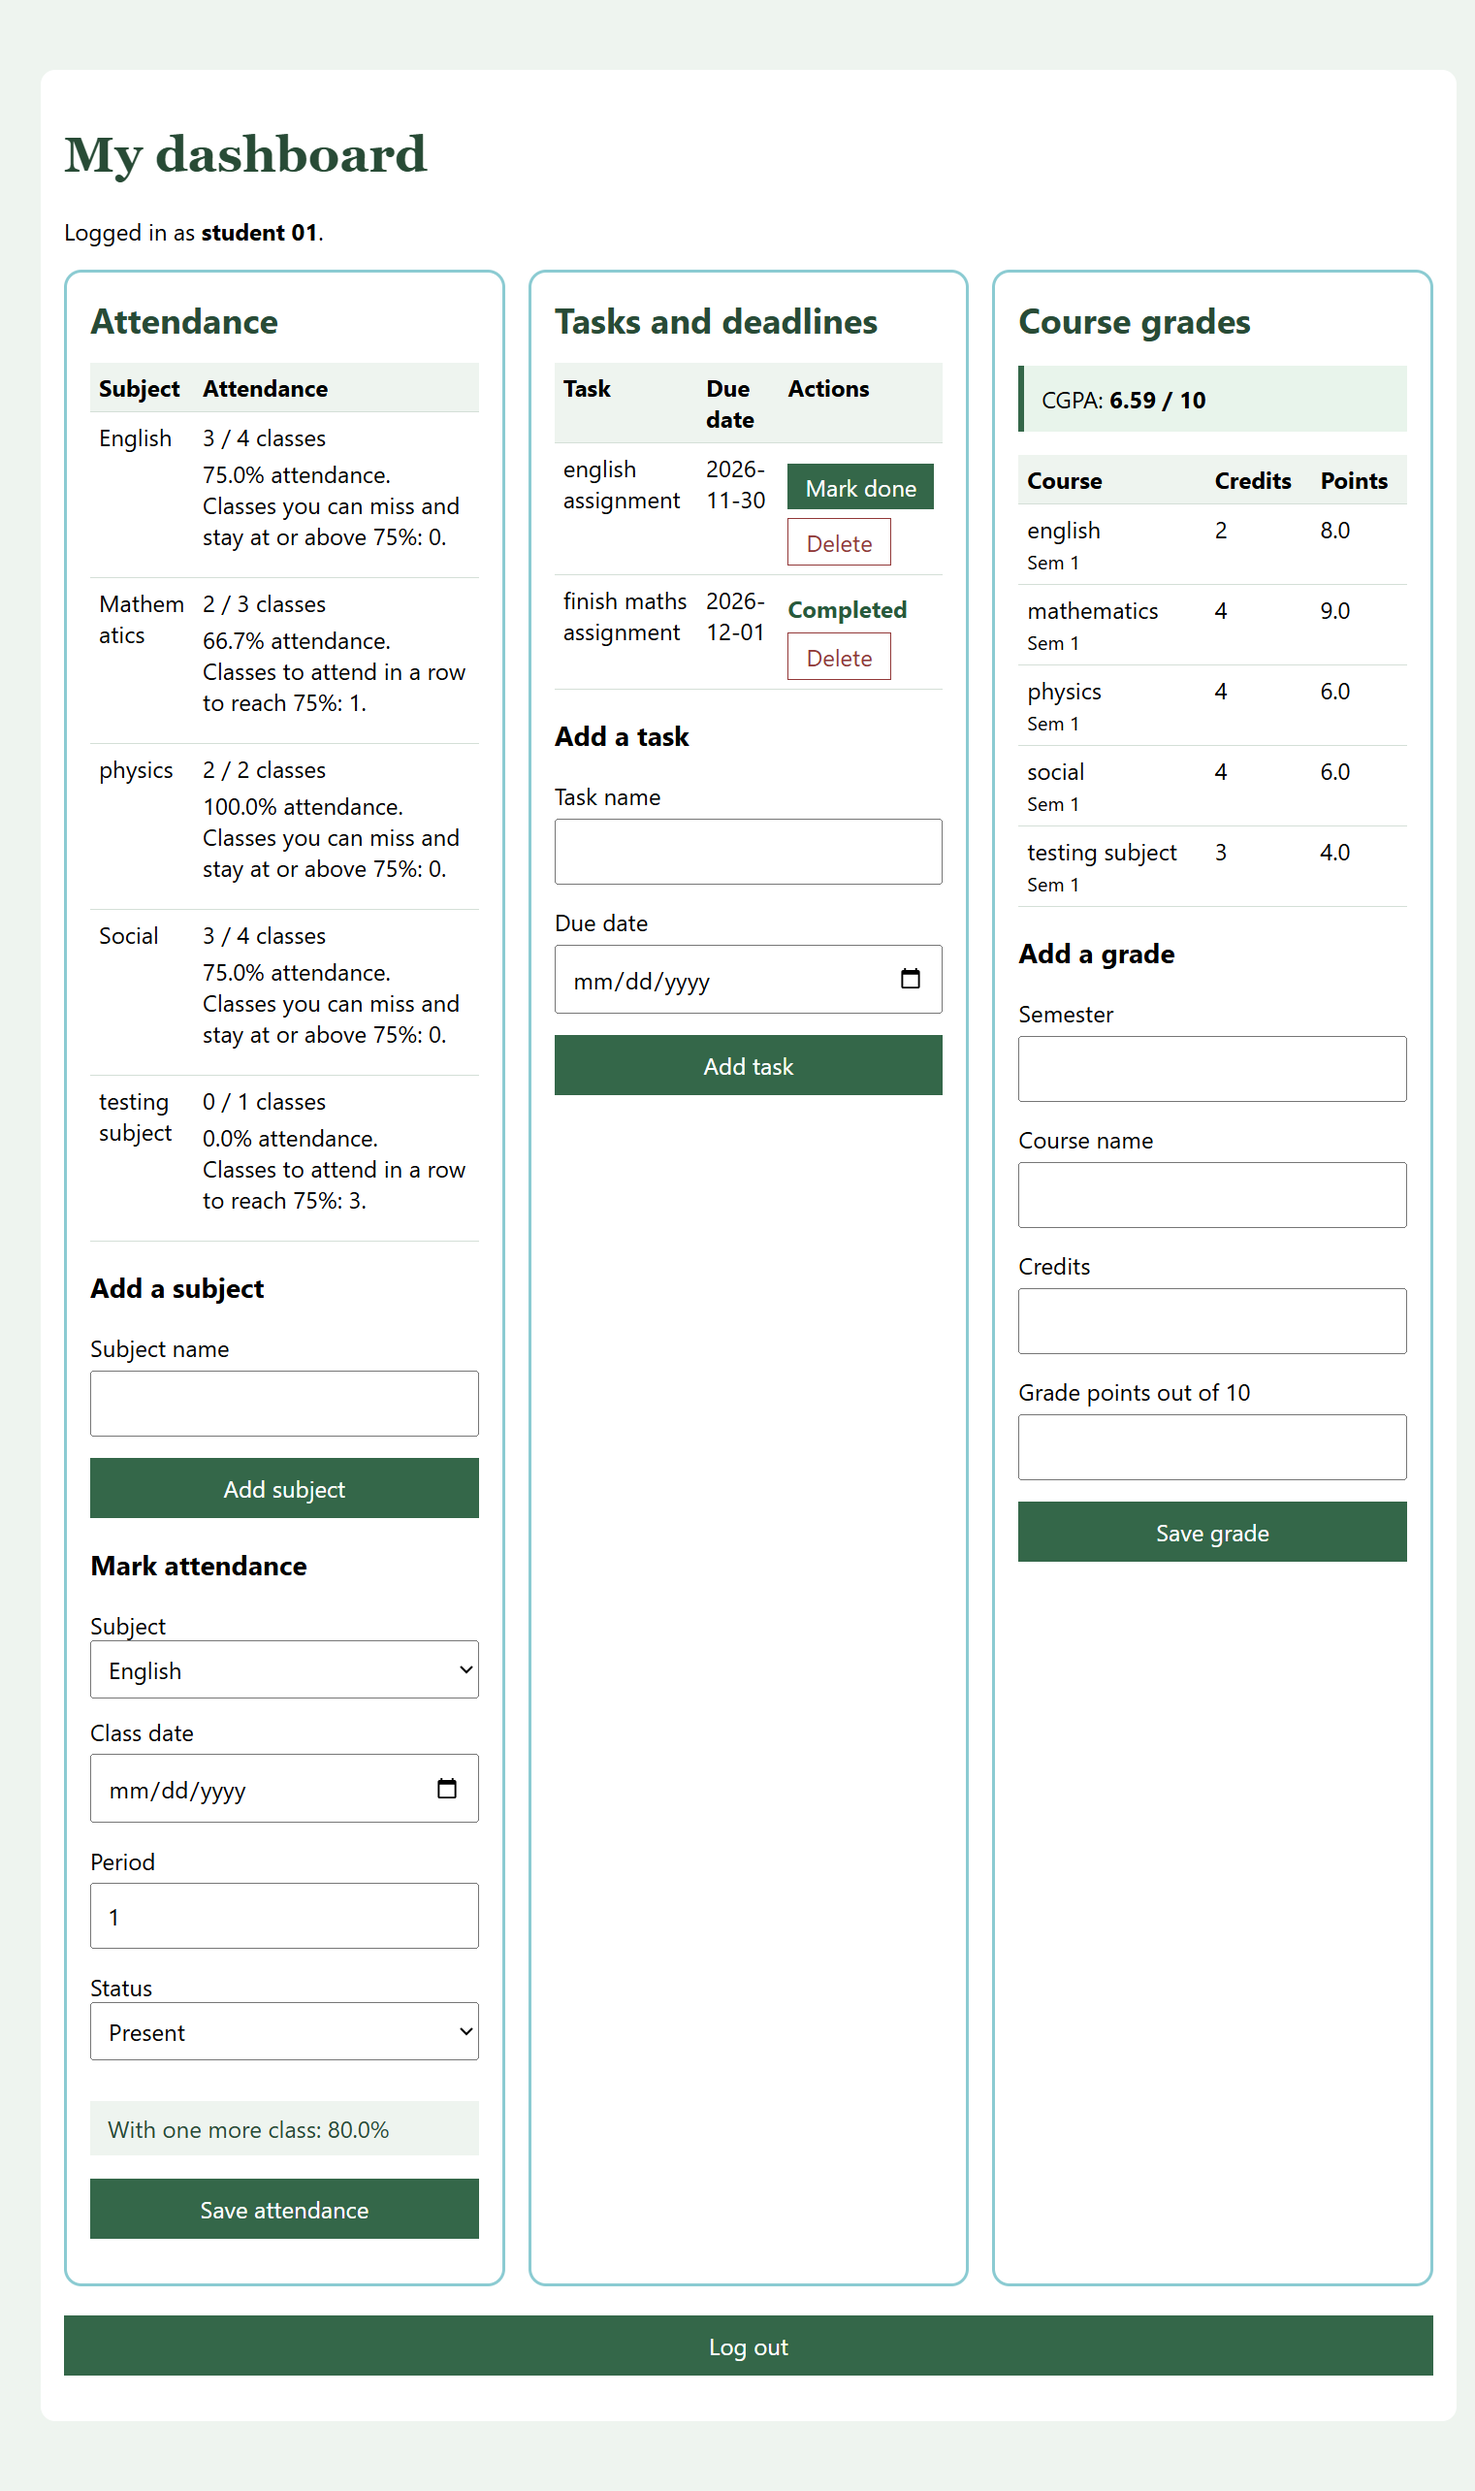
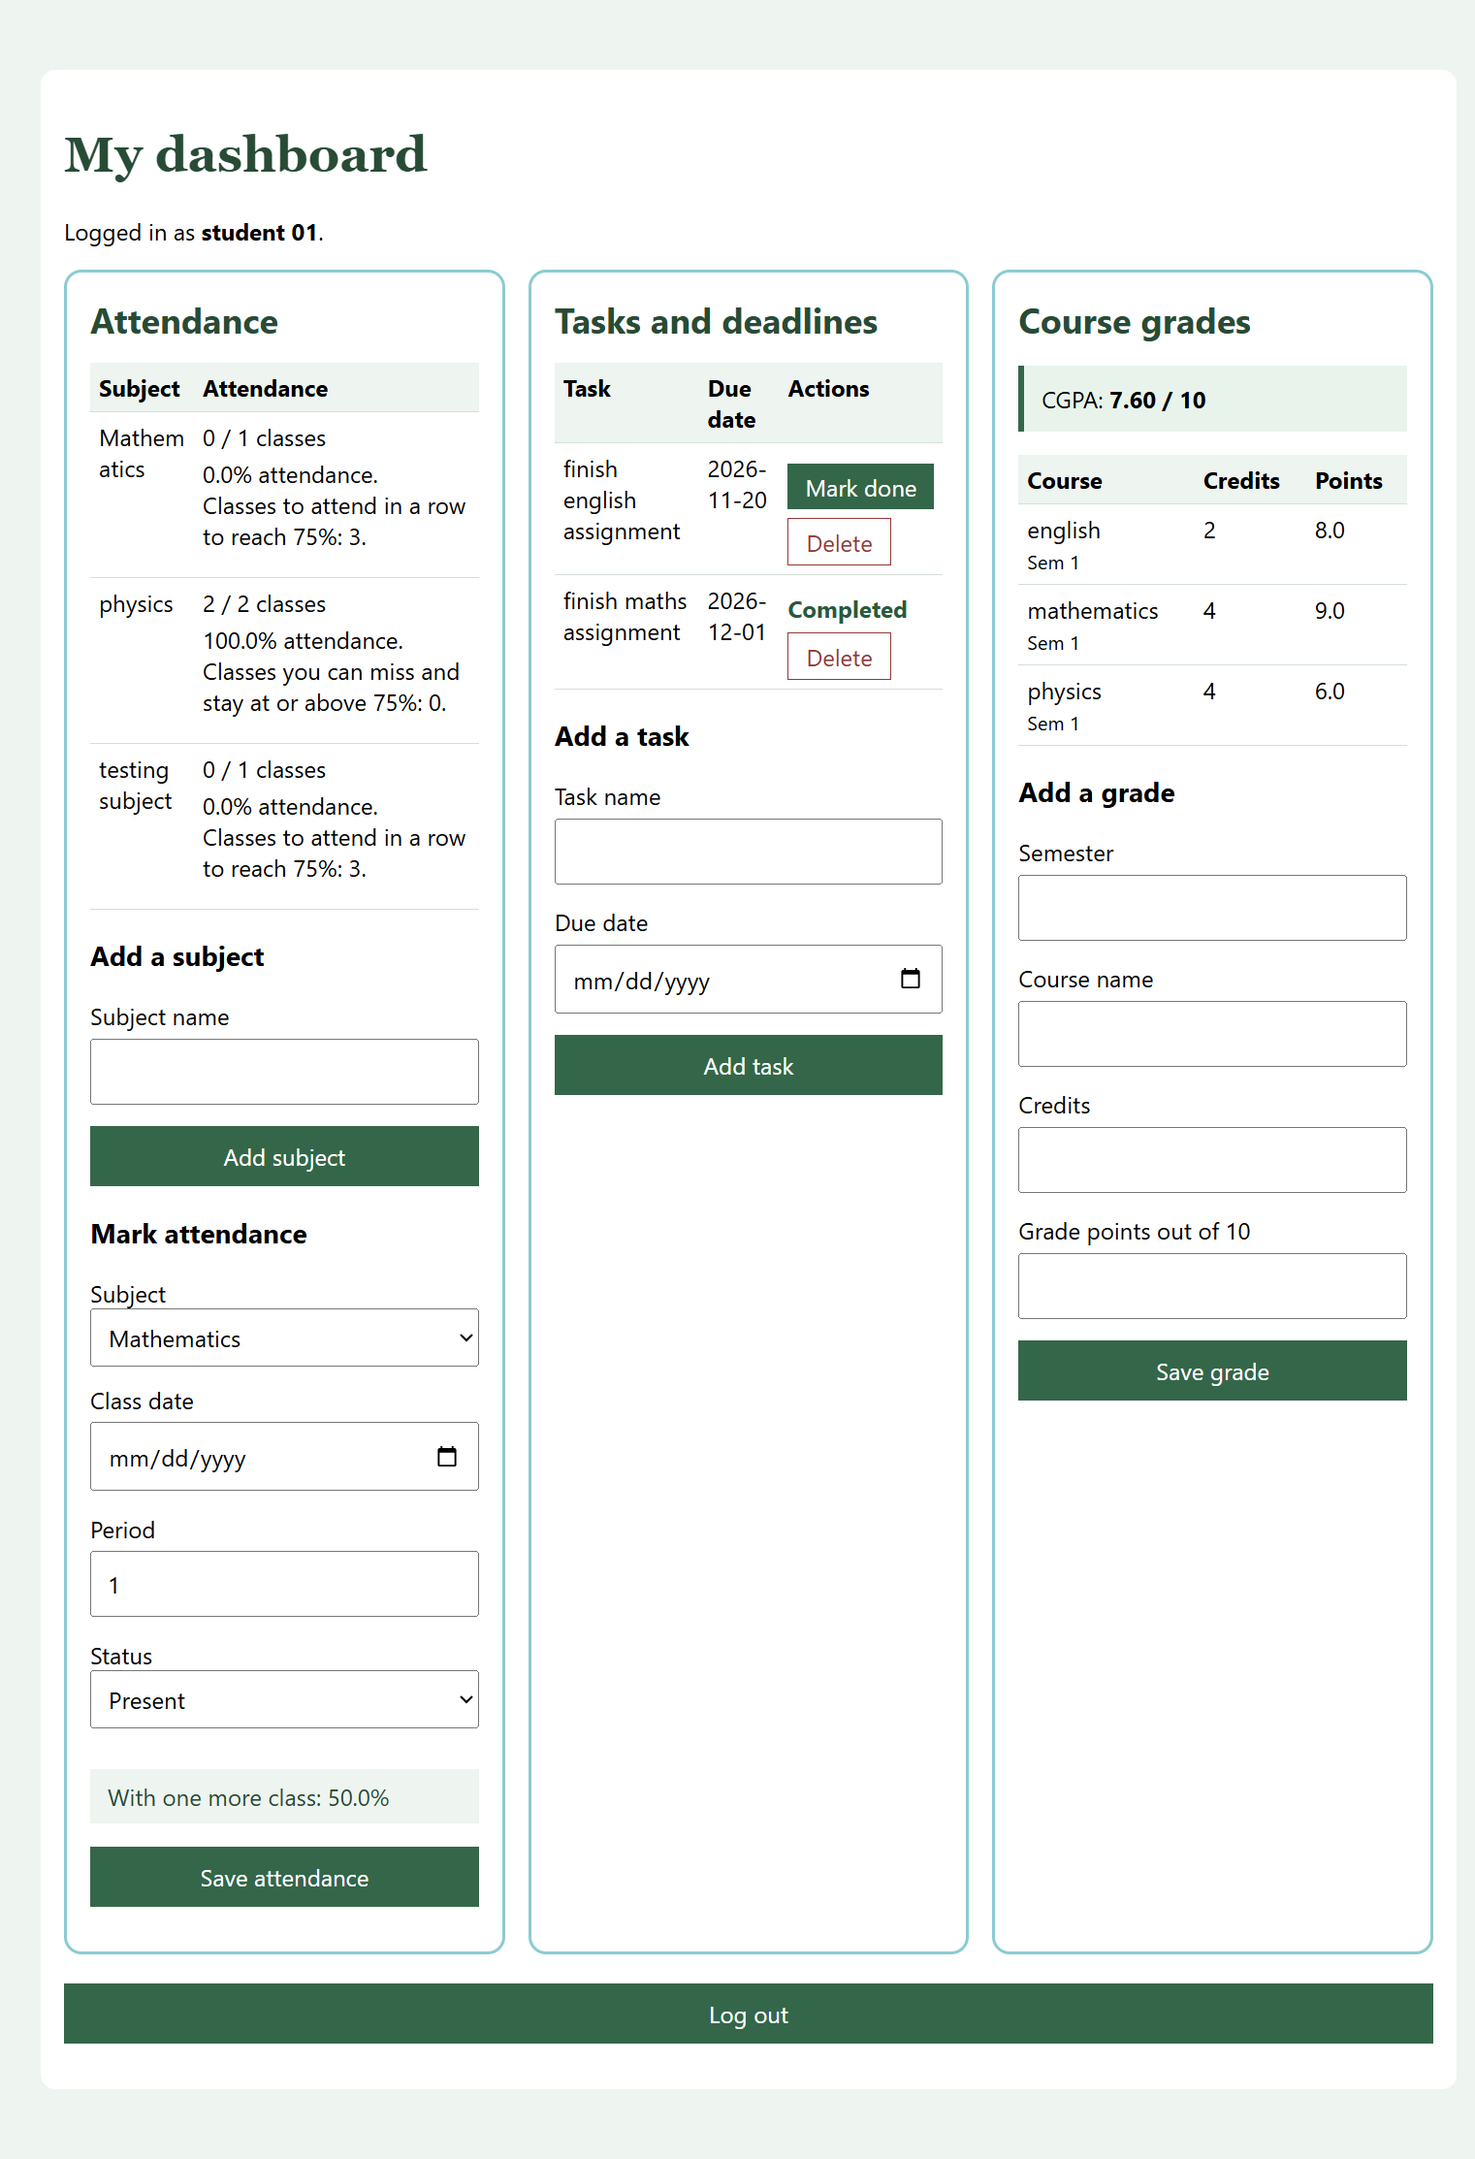
Remove old dashboard image

diff --git a/README.md b/README.md
@@ -27,11 +27,9 @@ This shared account contains fictional student records. You can also register yo
 
 ### Attendance
 
-- Mathematics: attended 2 of 3 class
+- Mathematics: attended 0 of 1 class
 - Physics: attended 2 of 2 classes
 - Testing subject: attended 0 of 1 class
-- English: attended 3 of 4
-- social: attended 3 of 4 classes
 
 ### Tasks
 
@@ -43,11 +41,8 @@ This shared account contains fictional student records. You can also register yo
 - English: 8 grade points, 2 credits
 - Mathematics: 9 grade points, 4 credits
 - Physics: 6 grade points, 4 credits
-- testing subject: 3 grade points, 8 credits
-- social: 4 grade points, 6 credits
 
-
-**CGPA: 6.59 / 10**
+**CGPA: 7.60 / 10**
 
 ## How to run it on Windows(Source)
 
